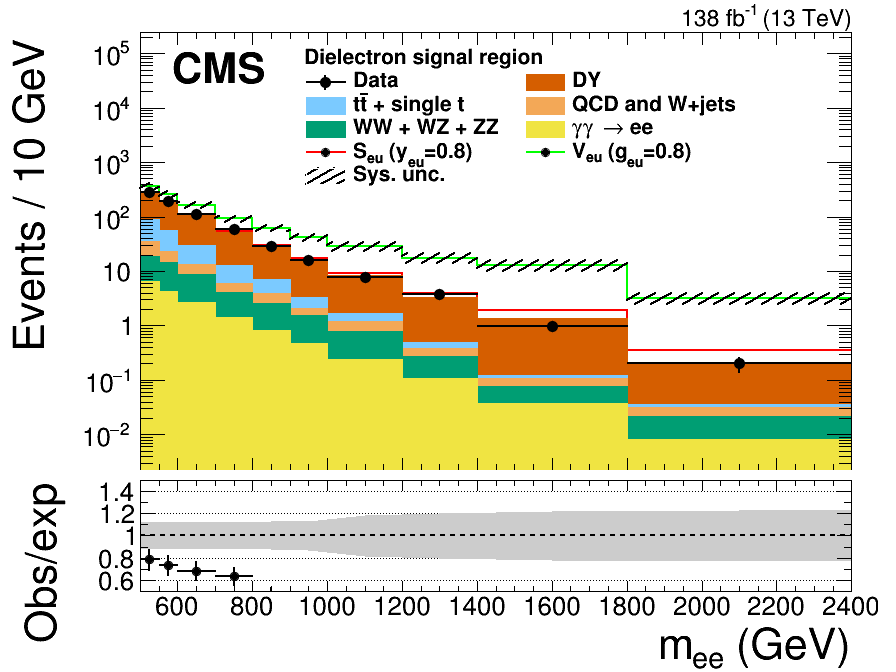
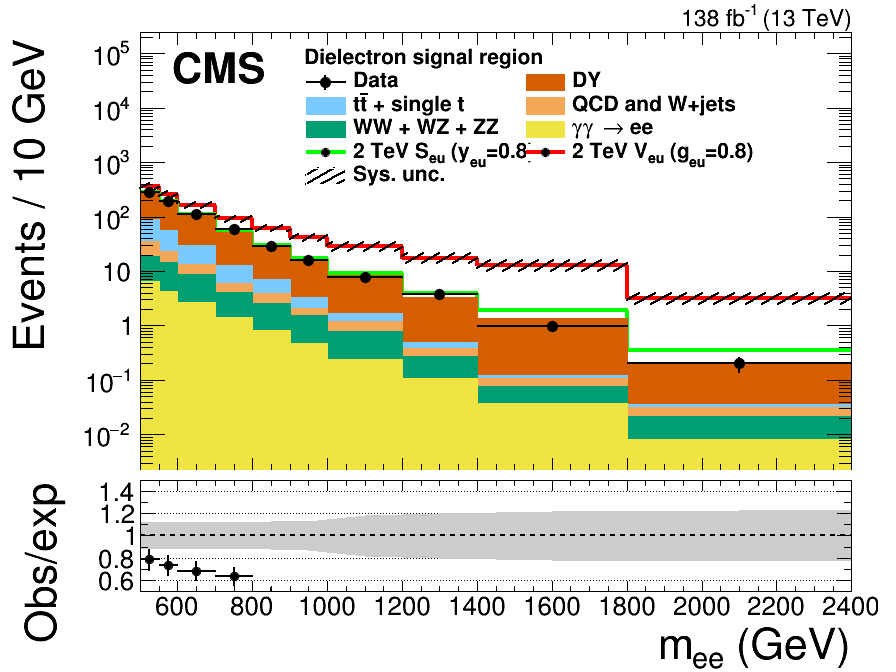
mumu plots

diff --git a/plots/MuMu/save_hists.C b/plots/MuMu/save_hists.C
@@ -34,7 +34,7 @@ char *plot_dir = "AN_plots/";
 char *plot_label = "";
 
 const int type = FLAG_MUONS;
-const int year = 2016;
+const int year = 2018;
 char *fout_name = "MuMu/LQ_saved_hists.root";
 
 
@@ -148,15 +148,15 @@ void save_hists(){
     float m_high = 13000;
     bool ss = false;
 
-    make_m_cost_pt_xf_hist(t_elel_data, data_m, data_cost, data_pt, data_xf, data_phi, data_rap, true, type,  year, m_low, m_high, false, 0);
-    make_m_cost_pt_xf_hist(t_elel_mc, dy_m, dy_cost, dy_pt, dy_xf, dy_phi, dy_rap, false, type, year, m_low, m_high, false, 0);
-    make_m_cost_pt_xf_hist(t_elel_tautau, dy_tautau_m, dy_tautau_cost, dy_tautau_pt, dy_tautau_xf, dy_tautau_phi, dy_tautau_rap, false, type,  year, m_low, m_high, false, 0);
-    make_m_cost_pt_xf_hist(t_elel_ttbar, ttbar_m, ttbar_cost, ttbar_pt, ttbar_xf, ttbar_phi, ttbar_rap, false, type,  year, m_low, m_high, false, 0);
-    make_m_cost_pt_xf_hist(t_elel_wt, wt_m, wt_cost, wt_pt, wt_xf, wt_phi, wt_rap, false, type,  year, m_low, m_high, false, 0);
-    make_m_cost_pt_xf_hist(t_elel_gamgam, gg_m, gg_cost, gg_pt, gg_xf, gg_phi, gg_rap, false, type,  year, m_low, m_high, false, 0);
-    make_m_cost_pt_xf_hist(t_elel_diboson, diboson_m, diboson_cost, diboson_pt, diboson_xf, diboson_phi, diboson_rap, false, type,   year, m_low, m_high, false, 0);
-    make_m_cost_pt_xf_hist(t_elel_mc, LQu_m, LQu_cost, LQu_pt, LQu_xf, LQu_phi, LQu_rap, false, type, year, m_low, m_high, false, 1, yLQ, m_LQ);
-    make_m_cost_pt_xf_hist(t_elel_mc, LQu_vec_m, LQu_vec_cost, LQu_vec_pt, LQu_vec_xf, LQu_vec_phi, LQu_vec_rap, false, type, year, m_low, m_high, false, 2, yLQ, m_LQ);
+    make_m_cost_pt_xf_hist(t_mumu_data, data_m, data_cost, data_pt, data_xf, data_phi, data_rap, true, type,  year, m_low, m_high, false, 0);
+    make_m_cost_pt_xf_hist(t_mumu_mc, dy_m, dy_cost, dy_pt, dy_xf, dy_phi, dy_rap, false, type, year, m_low, m_high, false, 0);
+    make_m_cost_pt_xf_hist(t_mumu_tautau, dy_tautau_m, dy_tautau_cost, dy_tautau_pt, dy_tautau_xf, dy_tautau_phi, dy_tautau_rap, false, type,  year, m_low, m_high, false, 0);
+    make_m_cost_pt_xf_hist(t_mumu_ttbar, ttbar_m, ttbar_cost, ttbar_pt, ttbar_xf, ttbar_phi, ttbar_rap, false, type,  year, m_low, m_high, false, 0);
+    make_m_cost_pt_xf_hist(t_mumu_wt, wt_m, wt_cost, wt_pt, wt_xf, wt_phi, wt_rap, false, type,  year, m_low, m_high, false, 0);
+    make_m_cost_pt_xf_hist(t_mumu_gamgam, gg_m, gg_cost, gg_pt, gg_xf, gg_phi, gg_rap, false, type,  year, m_low, m_high, false, 0);
+    make_m_cost_pt_xf_hist(t_mumu_diboson, diboson_m, diboson_cost, diboson_pt, diboson_xf, diboson_phi, diboson_rap, false, type,   year, m_low, m_high, false, 0);
+    make_m_cost_pt_xf_hist(t_mumu_mc, LQu_m, LQu_cost, LQu_pt, LQu_xf, LQu_phi, LQu_rap, false, type, year, m_low, m_high, false, 1, yLQ, m_LQ);
+    make_m_cost_pt_xf_hist(t_mumu_mc, LQu_vec_m, LQu_vec_cost, LQu_vec_pt, LQu_vec_xf, LQu_vec_phi, LQu_vec_rap, false, type, year, m_low, m_high, false, 2, yLQ, m_LQ);
     symmetrize1d(gg_cost);
 
     //gg_cost->Scale(0.);

diff --git a/plots/ElEl/draw_cmp_from_saved.C b/plots/ElEl/draw_cmp_from_saved.C
@@ -252,21 +252,21 @@ void draw_cmp_from_saved(){
     gg_rap->SetLineColor(gamgam_c);
 
 
-    LQu_m->SetLineColor(kRed);
-    LQu_cost->SetLineColor(kRed);
-    LQu_rap->SetLineColor(kRed);
+    LQu_m->SetLineColor(kGreen);
+    LQu_cost->SetLineColor(kGreen);
+    LQu_rap->SetLineColor(kGreen);
 
-    LQu_vec_m->SetLineColor(kGreen);
-    LQu_vec_cost->SetLineColor(kGreen);
-    LQu_vec_rap->SetLineColor(kGreen);
+    LQu_vec_m->SetLineColor(kRed);
+    LQu_vec_cost->SetLineColor(kRed);
+    LQu_vec_rap->SetLineColor(kRed);
 
-    LQu_m->SetLineWidth(2);
-    LQu_cost->SetLineWidth(2);
-    LQu_rap->SetLineWidth(2);
+    LQu_m->SetLineWidth(4);
+    LQu_cost->SetLineWidth(4);
+    LQu_rap->SetLineWidth(4);
 
-    LQu_vec_m->SetLineWidth(2);
-    LQu_vec_cost->SetLineWidth(2);
-    LQu_vec_rap->SetLineWidth(2);
+    LQu_vec_m->SetLineWidth(4);
+    LQu_vec_cost->SetLineWidth(4);
+    LQu_vec_rap->SetLineWidth(4);
 
     dy_cost->SetFillStyle(DY_style);
     dy_m->SetFillStyle(DY_style);
@@ -361,8 +361,8 @@ void draw_cmp_from_saved(){
     leg1->AddEntry(diboson_m, "WW + WZ + ZZ  ", "f");
     //leg1->AddEntry(gg_m, "#gamma#gamma #rightarrow #bf{ee}", "f");
     leg1->AddEntry(gg_m, "#gamma#gamma #rightarrow ee", "f");
-    leg1->AddEntry(LQu_m, "S_{eu} (y_{eu}=0.8)");
-    leg1->AddEntry(LQu_vec_m, "V_{eu} (g_{eu}=0.8)");
+    leg1->AddEntry(LQu_m, "2 TeV S_{eu} (y_{eu}=0.8)");
+    leg1->AddEntry(LQu_vec_m, "2 TeV V_{eu} (g_{eu}=0.8)");
     leg1->SetTextSize(0.048);
 
 
@@ -372,8 +372,8 @@ void draw_cmp_from_saved(){
     leg2->AddEntry(diboson_m, "WW + WZ + ZZ  ", "f");
     //leg2->AddEntry(gg_m, "#gamma#gamma #rightarrow #bf{ee}", "f");
     leg2->AddEntry(gg_m, "#gamma#gamma #rightarrow ee", "f");
-    leg2->AddEntry(LQu_m, "S_{eu} (y_{eu}=0.8)");
-    leg2->AddEntry(LQu_vec_m, "V_{eu} (g_{eu}=0.8)");
+    leg2->AddEntry(LQu_m, "2 TeV S_{eu} (y_{eu}=0.8)");
+    leg2->AddEntry(LQu_vec_m, "2 TeV V_{eu} (g_{eu}=0.8)");
     leg2->SetTextSize(0.048);
 
 
@@ -383,8 +383,8 @@ void draw_cmp_from_saved(){
     leg3->AddEntry(diboson_m, "WW + WZ + ZZ  ", "f");
     //leg3->AddEntry(gg_m, "#gamma#gamma #rightarrow #bf{ee}", "f");
     leg3->AddEntry(gg_m, "#gamma#gamma #rightarrow ee", "f");
-    leg3->AddEntry(LQu_m, "S_{eu} (y_{eu}=0.8)");
-    leg3->AddEntry(LQu_vec_m, "V_{eu} (g_{eu}=0.8)");
+    leg3->AddEntry(LQu_m, "2 TeV S_{eu} (y_{eu}=0.8)");
+    leg3->AddEntry(LQu_vec_m, "2 TeV V_{eu} (g_{eu}=0.8)");
     leg3->SetTextSize(0.048);
 
     leg1->SetX1NDC(0.7);

diff --git a/plots/MuMu/draw_cmp_from_saved.C b/plots/MuMu/draw_cmp_from_saved.C
@@ -251,21 +251,21 @@ void draw_cmp_from_saved(){
     gg_m->SetLineColor(gamgam_c);
     gg_rap->SetLineColor(gamgam_c);
 
-    LQu_m->SetLineColor(kRed);
-    LQu_cost->SetLineColor(kRed);
-    LQu_rap->SetLineColor(kRed);
+    LQu_m->SetLineColor(kGreen);
+    LQu_cost->SetLineColor(kGreen);
+    LQu_rap->SetLineColor(kGreen);
 
-    LQu_vec_m->SetLineColor(kGreen);
-    LQu_vec_cost->SetLineColor(kGreen);
-    LQu_vec_rap->SetLineColor(kGreen);
+    LQu_vec_m->SetLineColor(kRed);
+    LQu_vec_cost->SetLineColor(kRed);
+    LQu_vec_rap->SetLineColor(kRed);
 
-    LQu_m->SetLineWidth(2);
-    LQu_cost->SetLineWidth(2);
-    LQu_rap->SetLineWidth(2);
+    LQu_m->SetLineWidth(4);
+    LQu_cost->SetLineWidth(4);
+    LQu_rap->SetLineWidth(4);
 
-    LQu_vec_m->SetLineWidth(2);
-    LQu_vec_cost->SetLineWidth(2);
-    LQu_vec_rap->SetLineWidth(2);
+    LQu_vec_m->SetLineWidth(4);
+    LQu_vec_cost->SetLineWidth(4);
+    LQu_vec_rap->SetLineWidth(4);
 
 
 
@@ -358,8 +358,8 @@ void draw_cmp_from_saved(){
     leg1->AddEntry(QCD_m, "QCD and W+jets", "f");
     leg1->AddEntry(diboson_m, "WW + WZ + ZZ  ", "f");
     leg1->AddEntry(gg_m, "#gamma#gamma #rightarrow #mu#mu", "f");
-    leg1->AddEntry(LQu_m, "S_{#mu u} (y_{#mu u}=0.8)");
-    leg1->AddEntry(LQu_vec_m, "V_{#mu u} (g_{#mu u}=0.8)");
+    leg1->AddEntry(LQu_m, "2 TeV S_{#mu u} (y_{#mu u}=0.8)");
+    leg1->AddEntry(LQu_vec_m, "2 TeV V_{#mu u} (g_{#mu u}=0.8)");
     leg1->SetTextSize(0.048);
 
 
@@ -368,8 +368,8 @@ void draw_cmp_from_saved(){
     leg2->AddEntry(QCD_m, "QCD and W+jets", "f");
     leg2->AddEntry(diboson_m, "WW + WZ + ZZ  ", "f");
     leg2->AddEntry(gg_m, "#gamma#gamma #rightarrow #mu#mu", "f");
-    leg2->AddEntry(LQu_m, "S_{#mu u} (y_{#mu u}=0.8)");
-    leg2->AddEntry(LQu_vec_m, "V_{#mu u} (g_{#mu u}=0.8)");
+    leg2->AddEntry(LQu_m, "2 TeV S_{#mu u} (y_{#mu u}=0.8)");
+    leg2->AddEntry(LQu_vec_m, "2 TeV V_{#mu u} (g_{#mu u}=0.8)");
     leg2->SetTextSize(0.048);
 
 
@@ -378,8 +378,8 @@ void draw_cmp_from_saved(){
     leg3->AddEntry(QCD_m, "QCD and W+jets", "f");
     leg3->AddEntry(diboson_m, "WW + WZ + ZZ  ", "f");
     leg3->AddEntry(gg_m, "#gamma#gamma #rightarrow #mu#mu", "f");
-    leg3->AddEntry(LQu_m, "S_{#mu u} (y_{#mu u}=0.8)");
-    leg3->AddEntry(LQu_vec_m, "V_{#mu u} (g_{#mu u}=0.8)");
+    leg3->AddEntry(LQu_m, "2 TeV S_{#mu u} (y_{#mu u}=0.8)");
+    leg3->AddEntry(LQu_vec_m, "2 TeV V_{#mu u} (g_{#mu u}=0.8)");
     leg3->SetTextSize(0.048);
 
 
